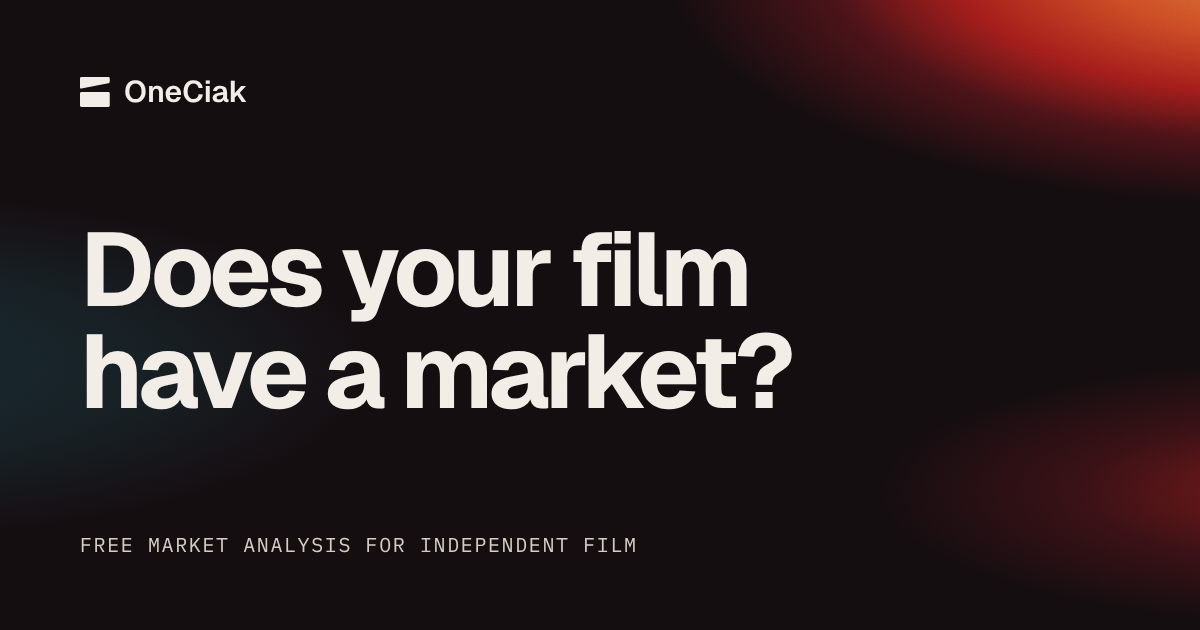
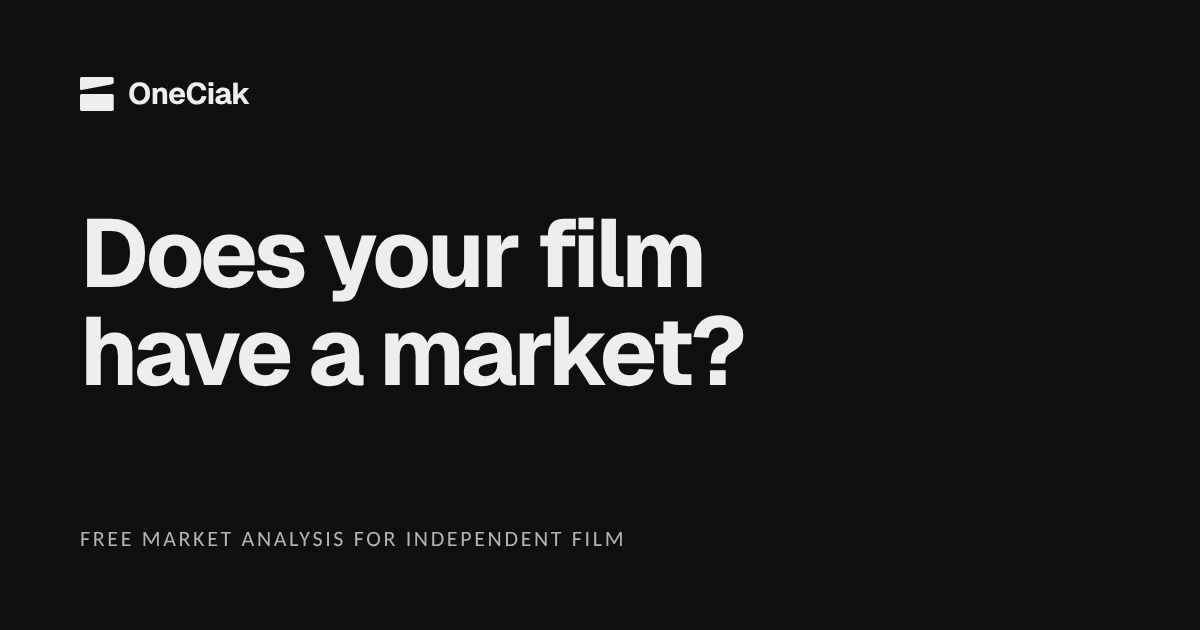
Images and remaining mails in black and white; image check
Claude-Session: https://claude.ai/code/session_01KB7uckaFEVRn4u848AoGXr

diff --git a/netlify/functions/request-login.js b/netlify/functions/request-login.js
@@ -46,17 +46,17 @@ exports.handler = async (event) => {
 
     // Same look as the report email and the site: night header, warm paper body.
     const FONT = "Calibri,Carlito,-apple-system,BlinkMacSystemFont,'Segoe UI',Helvetica,Arial,sans-serif";
-    const html = '<!doctype html><html><head><meta name="color-scheme" content="light only"></head><body style="margin:0;padding:0;background:#f4f1ec;font-family:' + FONT + '">' +
-      '<table role="presentation" width="100%" cellpadding="0" cellspacing="0" style="background:#f4f1ec;padding:28px 0"><tr><td align="center">' +
-      '<table role="presentation" width="480" cellpadding="0" cellspacing="0" style="max-width:480px;width:100%;border-radius:14px;overflow:hidden;background:#fbf9f6">' +
-      '<tr><td bgcolor="#140d10" background="https://oneciak.com/email-header.jpg" style="background:#140d10 url(https://oneciak.com/email-header.jpg) center top / cover no-repeat;padding:24px 28px 26px">' +
-        '<div style="font-size:15px;font-weight:700;color:#f2ede6">OneCiak</div>' +
-        '<div style="margin-top:26px;font-size:24px;line-height:1.15;font-weight:700;color:#f2ede6;letter-spacing:-0.02em">Your sign-in link</div>' +
+    const html = '<!doctype html><html><head><meta name="color-scheme" content="light only"></head><body style="margin:0;padding:0;background:#f1f1f1;font-family:' + FONT + '">' +
+      '<table role="presentation" width="100%" cellpadding="0" cellspacing="0" style="background:#f1f1f1;padding:28px 0"><tr><td align="center">' +
+      '<table role="presentation" width="480" cellpadding="0" cellspacing="0" style="max-width:480px;width:100%;border-radius:14px;overflow:hidden;background:#f9f9f9">' +
+      '<tr><td bgcolor="#0f0f0f" style="background:#0f0f0f;padding:24px 28px 26px">' +
+        '<div style="font-size:15px;font-weight:700;color:#eeeeee">OneCiak</div>' +
+        '<div style="margin-top:26px;font-size:24px;line-height:1.15;font-weight:700;color:#eeeeee;letter-spacing:-0.02em">Your sign-in link</div>' +
       '</td></tr>' +
       '<tr><td style="padding:24px 28px 28px;font-size:15px;line-height:1.6;color:#161616">' +
         '<p style="margin:0">Click below to see every full report you\'ve requested with this email address. This link expires in 20 minutes.</p>' +
-        '<p style="margin:22px 0 0"><a href="' + esc(loginUrl) + '" style="display:inline-block;background:#140d10;color:#f2ede6;padding:13px 22px;border-radius:10px;text-decoration:none;font-weight:600;font-size:14px">View my reports</a></p>' +
-        '<p style="margin:22px 0 0;color:#5c5852;font-size:13px">If you didn\'t request this, you can safely ignore this email.</p>' +
+        '<p style="margin:22px 0 0"><a href="' + esc(loginUrl) + '" style="display:inline-block;background:#0f0f0f;color:#eeeeee;padding:13px 22px;border-radius:10px;text-decoration:none;font-weight:600;font-size:14px">View my reports</a></p>' +
+        '<p style="margin:22px 0 0;color:#595959;font-size:13px">If you didn\'t request this, you can safely ignore this email.</p>' +
       '</td></tr></table></td></tr></table></body></html>';
 
     try {

diff --git a/netlify/functions/_util/email.js b/netlify/functions/_util/email.js
@@ -325,7 +325,7 @@ function buildReportEmailHtml(project, r, sessionId, viewUrlOverride) {
     '<table role="presentation" width="100%" cellpadding="0" cellspacing="0" style="background:#f1f1f1;padding:28px 0">' +
     '<tr><td align="center">' +
     '<table role="presentation" width="600" cellpadding="0" cellspacing="0" style="max-width:600px;width:100%;border-radius:14px;overflow:hidden;background:#f9f9f9">' +
-    '<tr><td bgcolor="#0f0f0f" background="https://oneciak.com/email-header.jpg" style="background:#0f0f0f url(https://oneciak.com/email-header.jpg) center top / cover no-repeat;padding:28px 32px 30px">' +
+    '<tr><td bgcolor="#0f0f0f" style="background:#0f0f0f;padding:28px 32px 30px">' +
       '<div style="font-size:15px;font-weight:700;color:#eeeeee;letter-spacing:-0.01em">OneCiak</div>' +
       // The film's name like a poster, as on the site: as wide as the 536px
       // column allows (about 0.55em per letter in bold), 30 to 96px; on a

diff --git a/admin-stats.html b/admin-stats.html
@@ -15,7 +15,7 @@
   input[type="password"], input[type="text"] { flex: 1; padding: 10px 12px; border: 1px solid #dcdcdc; border-radius: 6px; font-size: 14px; }
   button { padding: 10px 16px; border: none; background: #161616; color: #fff; border-radius: 6px; font-size: 14px; cursor: pointer; }
   button:hover { background: #333; }
-  .error { color: #b3261e; font-size: 13px; margin-bottom: 16px; display: none; }
+  .error { color: #4f4f4f; font-size: 13px; margin-bottom: 16px; display: none; }
   .funnel { display: flex; flex-direction: column; gap: 10px; margin-bottom: 32px; }
   .funnel-row { display: flex; align-items: center; gap: 12px; padding: 12px 14px; background: #fff; border: 1px solid #ebebeb; border-radius: 8px; }
   .funnel-label { flex: 1; font-size: 13px; color: #6f6f6f; }

diff --git a/docs/sito.md b/docs/sito.md
@@ -9,7 +9,10 @@ riproposte. La storia sta in git.
 
 - **Solo bianco e nero** ("non voglio assolutamente più colori", 26
   novembre 2026): ogni colore è un grigio esatto (R=G=B), anche in roadmap,
-  privacy, termini, 404, PDF e mail; `tests/lint.js` blocca il resto. Niente
+  privacy, termini, 404, PDF, mail e immagini; `tests/lint.js` blocca i
+  colori nel codice, `check.sh` i pixel colorati nelle immagini.
+  `og-image.png` (anteprima dei link) rifatta in bianco e nero;
+  `email-header.jpg` è nero pieno e resta solo per le mail già inviate. Niente
   bagliori né accenti. `--danger` e `--success` valgono come il testo:
   errori e conferme si capiscono dalle parole. Etichette in grassetto nel
   colore del testo; barre dei voti, linea dell'indice e dei passi del

diff --git a/docs/controlli.md b/docs/controlli.md
@@ -15,6 +15,8 @@ errore sfugge ai programmi, si aggiunge la prova che l'avrebbe trovato.
   di testo al posto delle icone, trattini lunghi, pillole, `transition:
   all`, `scale(0)`, misure fuori scala, hover fuori da `@media (hover:
   hover) and (pointer: fine)`.
+- **Immagini** (in `check.sh`): nessun pixel colorato nelle immagini del
+  sito (`og-image.png`, icone, `email-header.jpg`).
 - **`functions.js [url]`**: ogni funzione su telefono e computer: menu,
   modulo, ogni area, blocco, passo e voce dell'indice, glossario, copia
   email, PDF, Report a problem, bottoni principali tutti uguali, colonna
